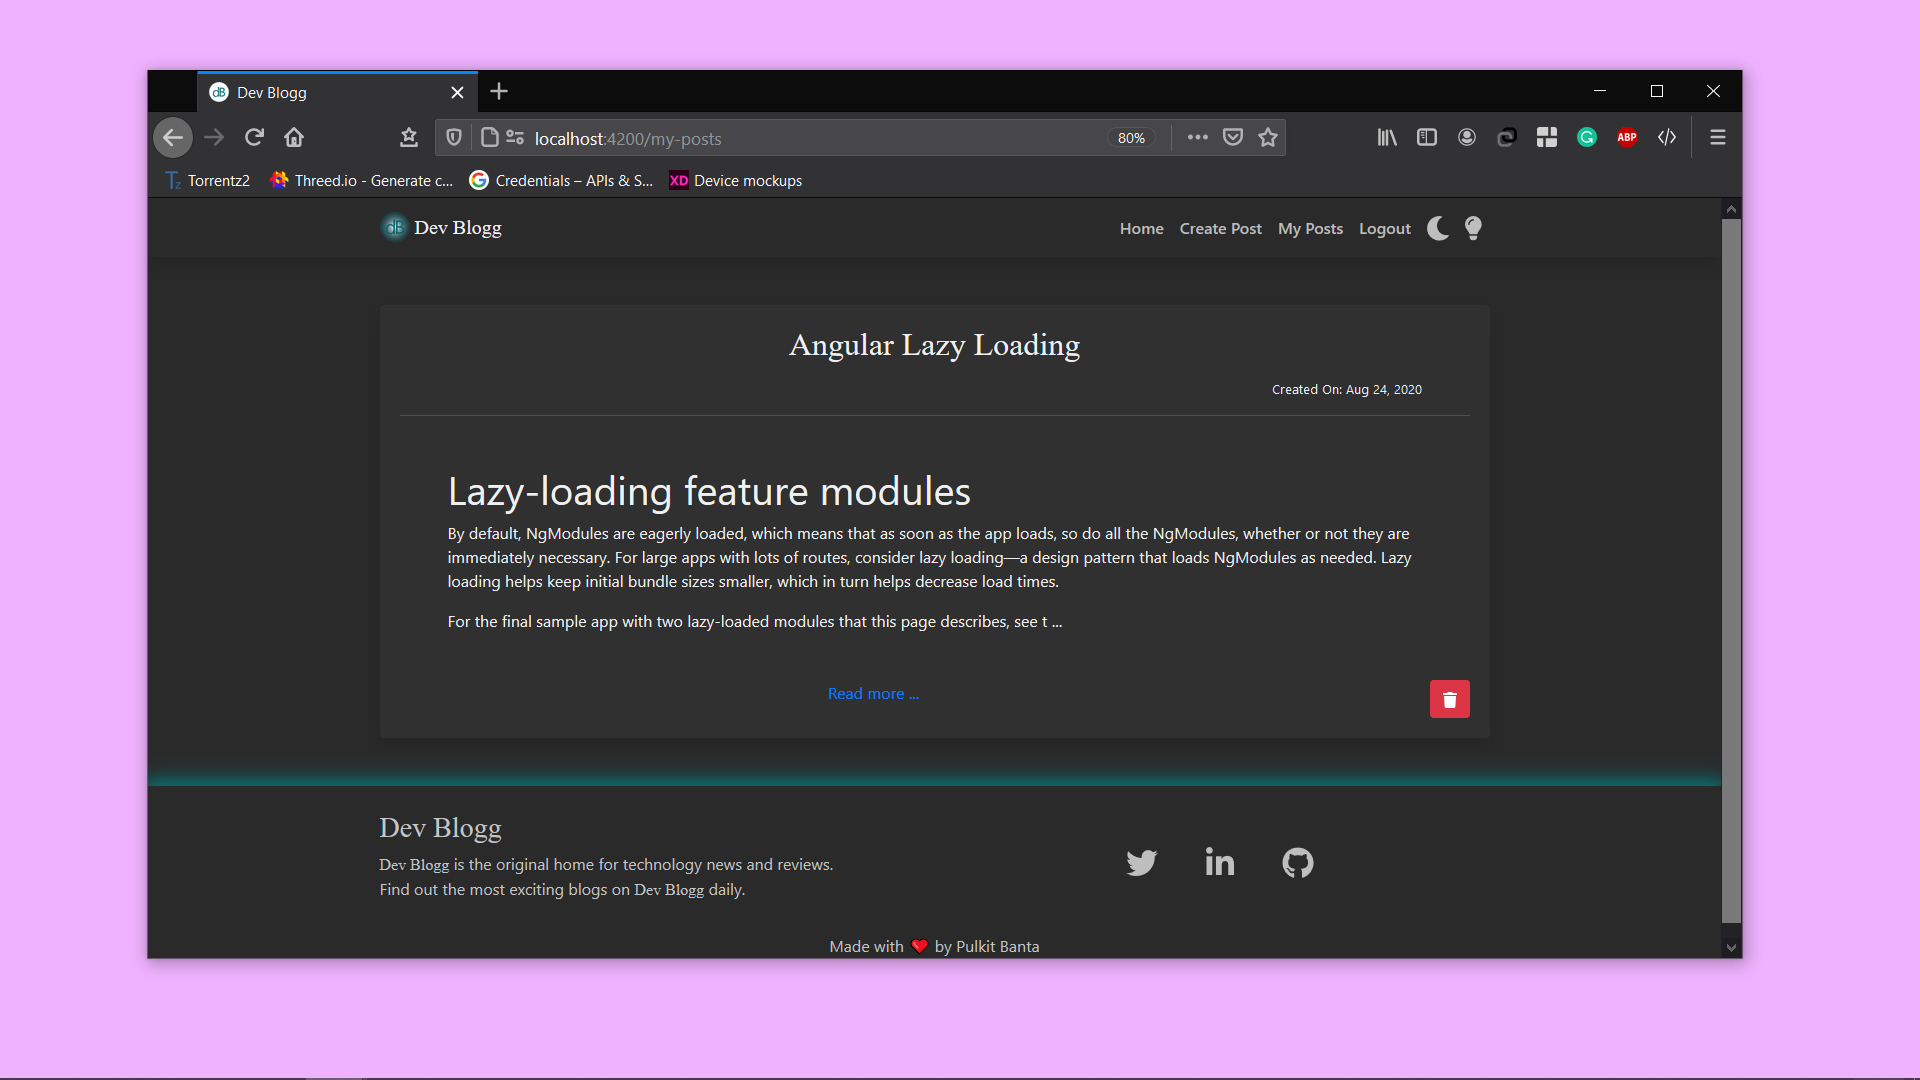
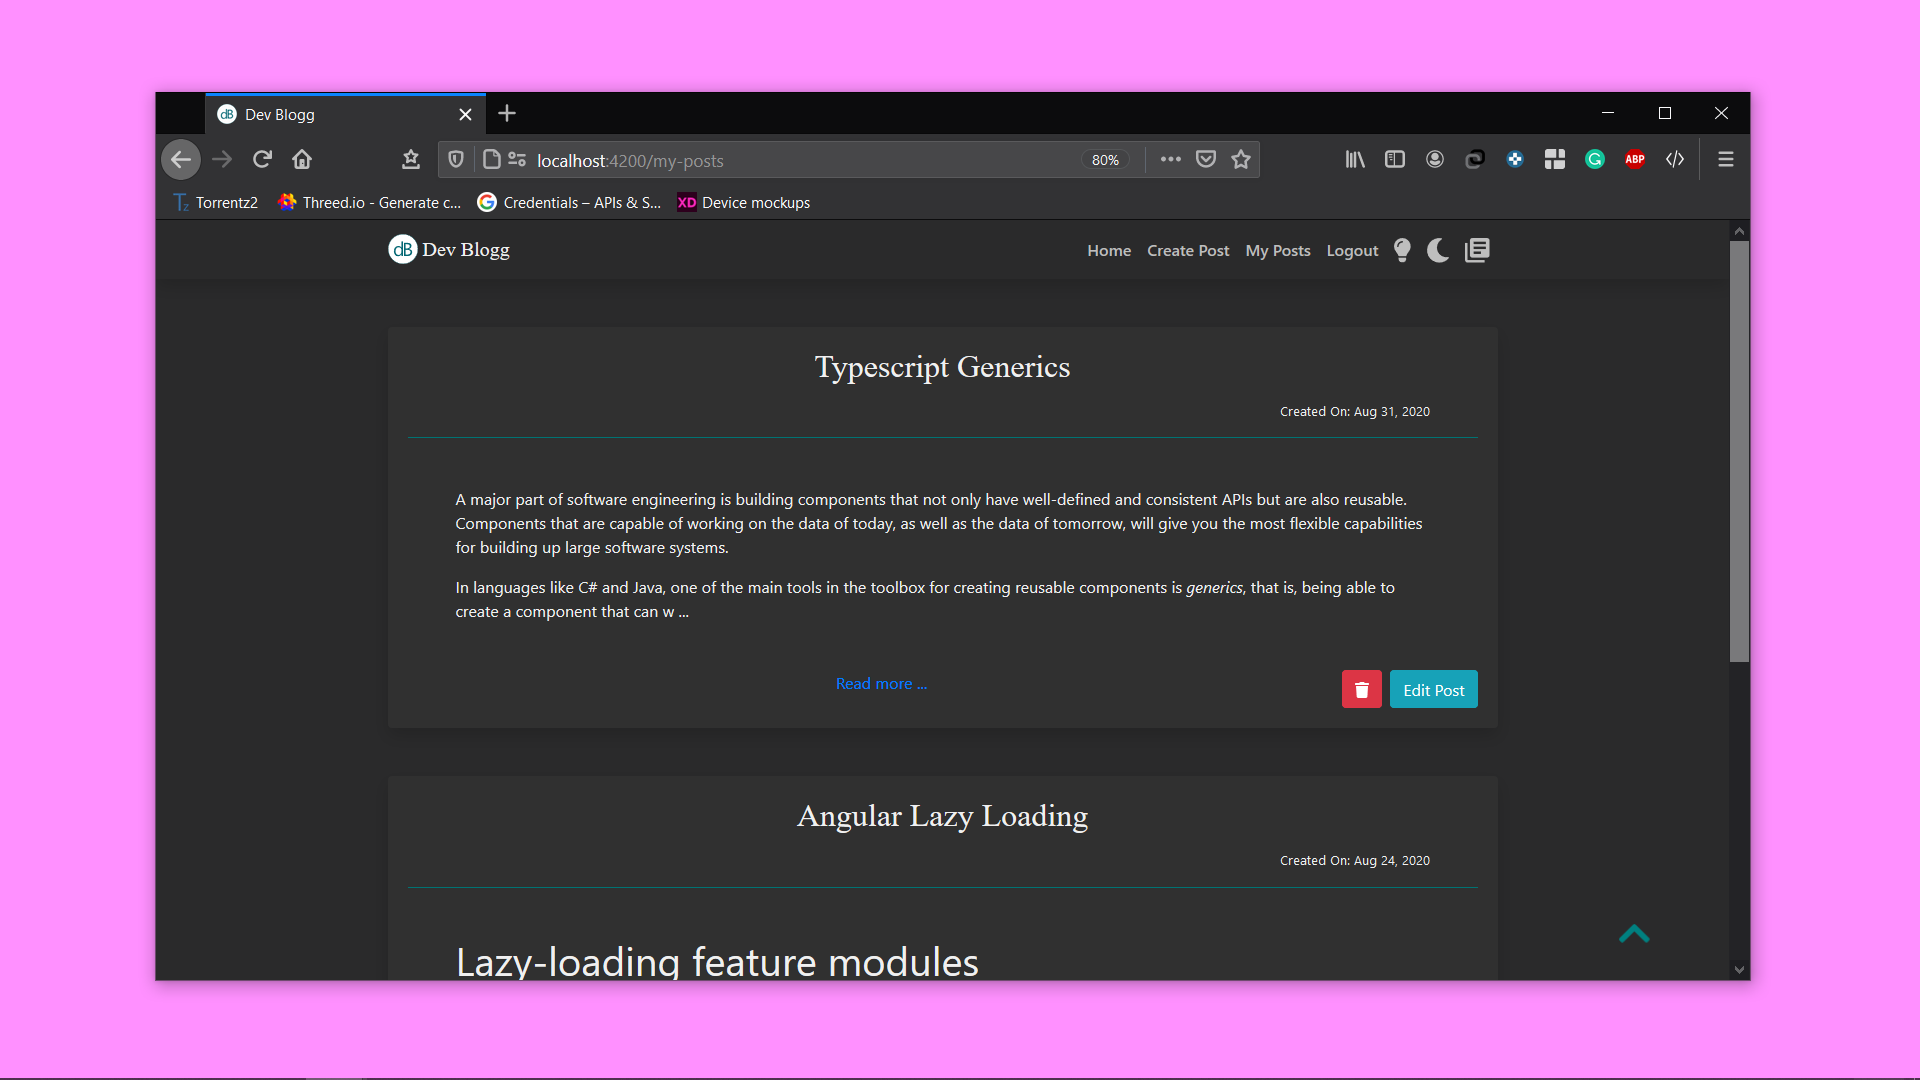
readme feature update, screenshot update

diff --git a/Readme.md b/Readme.md
@@ -63,20 +63,19 @@ $ mvn spring-boot:run
 
 ## Features
 
-- Create posts.
 - Multiple themes.
 - Material design.
 - Responsive design.
 - Login and Signup feature.
-- Read posts by other users.
+- CRUD operations on Posts.
 
 ## Upcoming Features
 
 - [x] Dark Mode.
 - [x] Delete Post.
 - [x] Reading Mode.
+- [x] Edit Post.
 - [ ] Post Tags.
-- [ ] Edit Post.
 
 ## Built With
 
